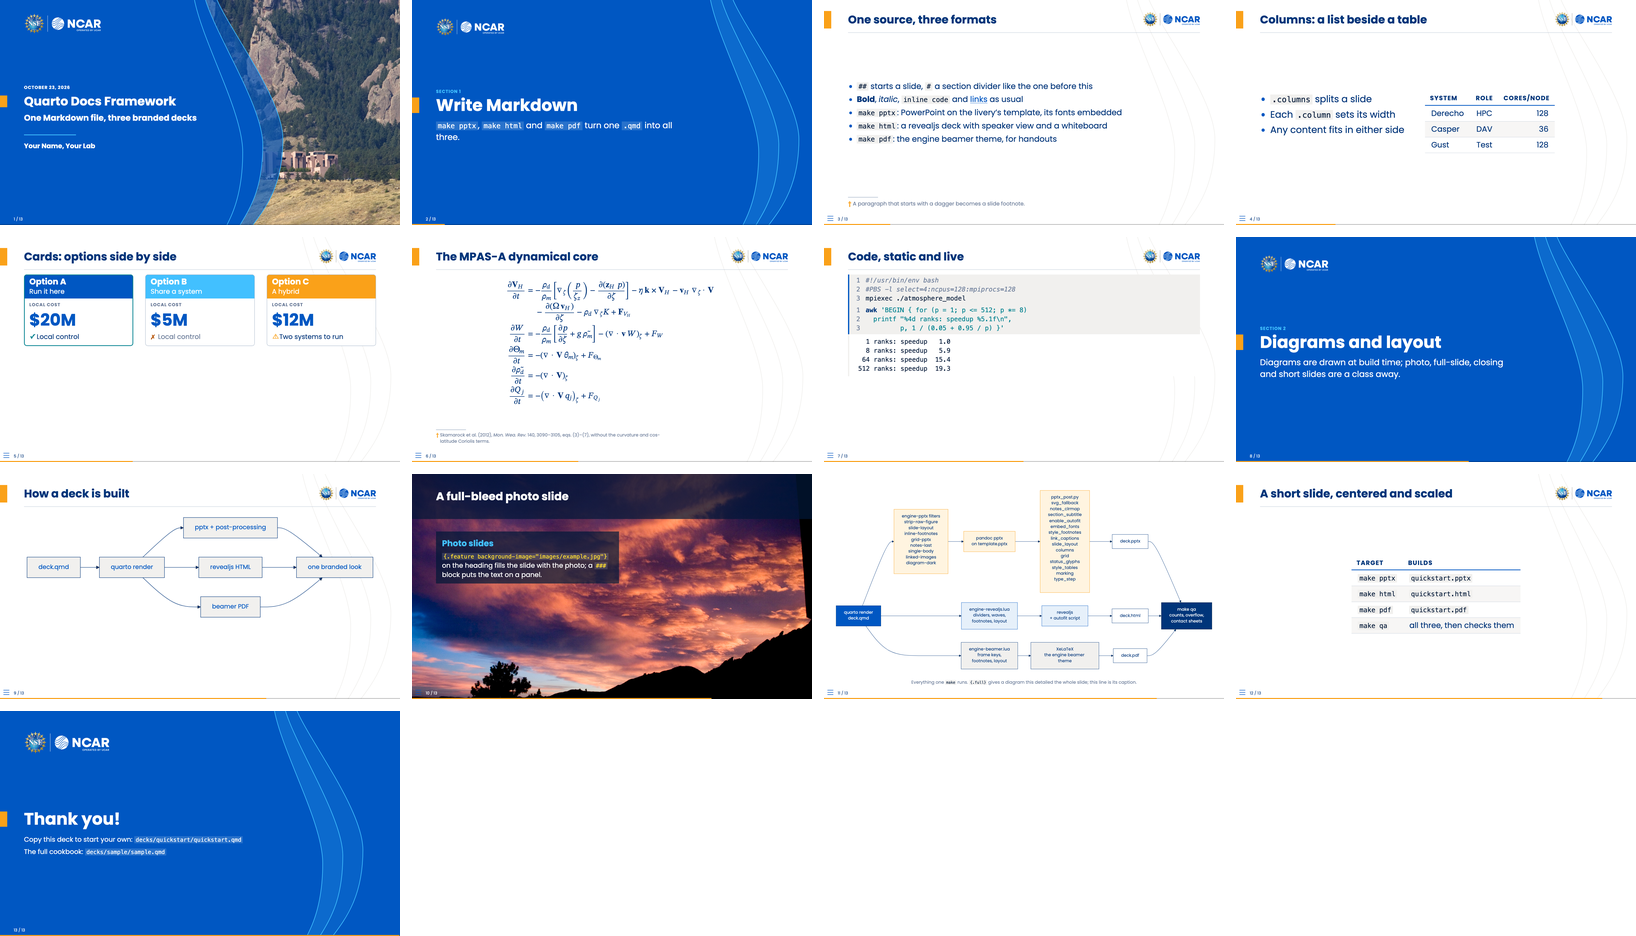
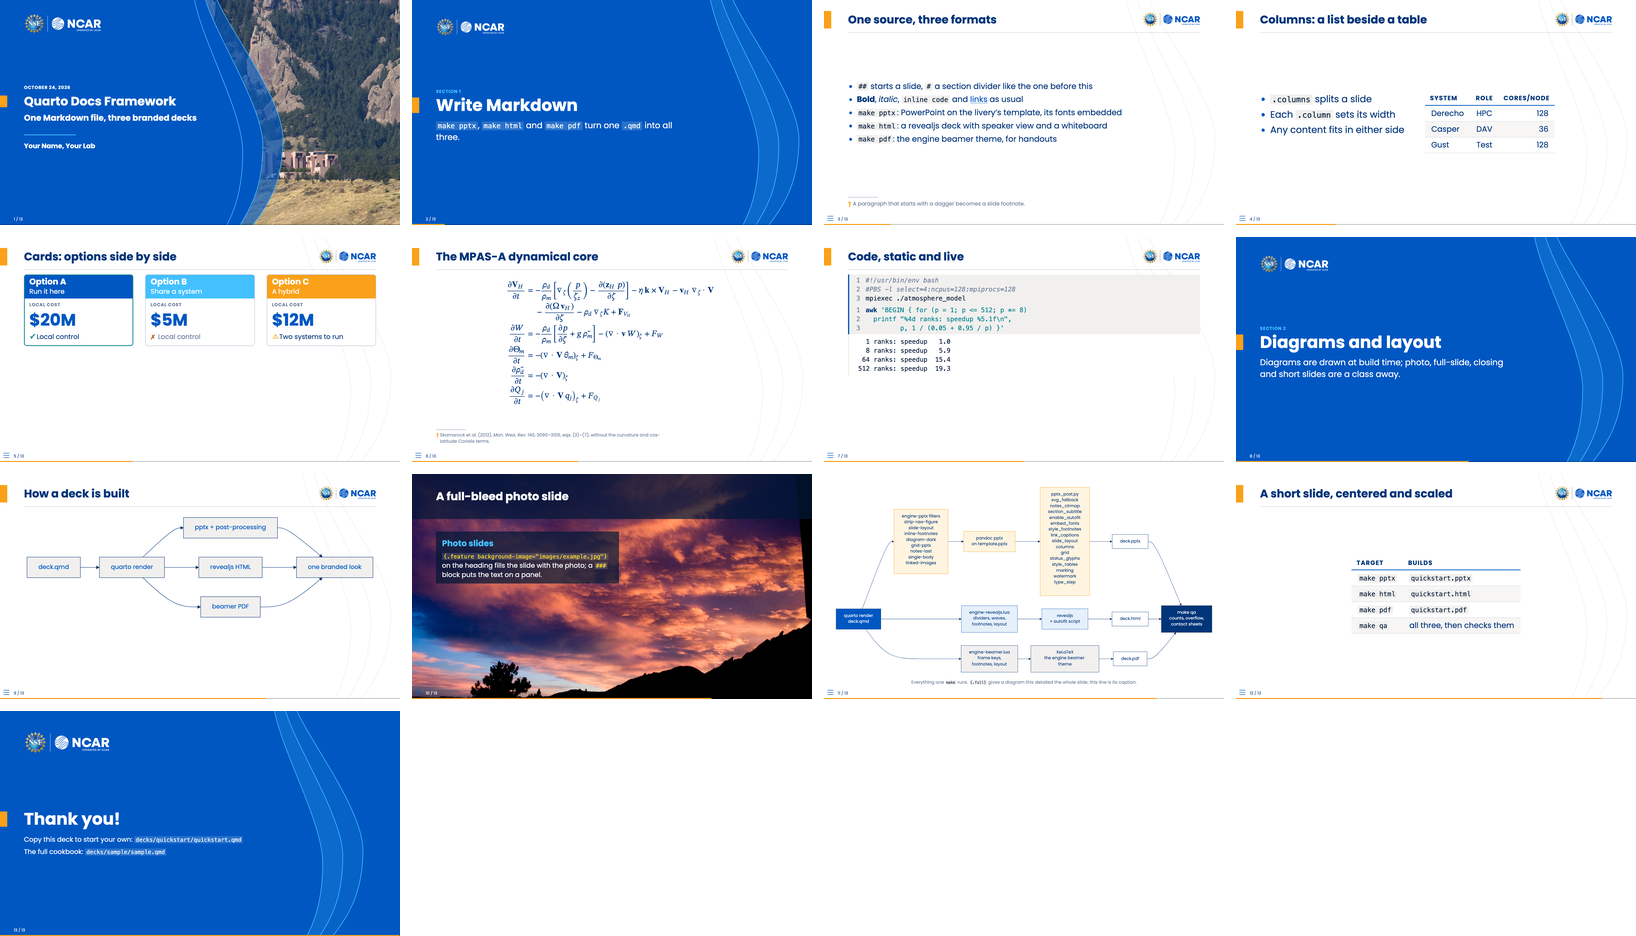
sweep(13): the quickstart's pipeline diagram and formats.md's step list as the code runs
The quickstart's full-slide diagram (09-full.png, in the README's overview) listed diagram-dark last among
the pptx filters, where #148 moved it before grid-pptx (_extension.yml), and its post-render
steps ended marking, type_step, missing #149's watermark between them; docs/formats.md's step
list missed the watermark too. Both now follow _extension.yml and pptx_post.py; the slide's
shot and the overview are reshot (the handoff named it 07-mermaid; that slide is another).

Claude-Session: https://claude.ai/code/session_016ELREyRJPbKMgLhTztacRH

Changed region(s): [[0.4988, 0.5267, 0.7482, 0.7436]]

diff --git a/docs/formats.md b/docs/formats.md
@@ -128,6 +128,9 @@ Per deck, `make pptx` runs:
      cell by cell, and evenly split columns are re-split by content.
    - `marking`: the marking strips on every slide (a deck's `marking:`, else each strip's
      default text; see [authoring.md "Front matter and slide kinds"](authoring.md#front-matter-and-slide-kinds)).
+   - `watermark`: a deck's `watermark:` (or the livery's default text) on every slide, turned and
+     faint, behind the slide's first shape that holds text; after every step that adds a slide's
+     shapes.
    - `type_step`: applies a deck's `type-body:` or `type-scale:` (see [authoring.md "Text sizes and the slide size"](authoring.md#text-sizes-and-the-slide-size)),
      last, to every size the steps before it set (the strip's too, as HTML and PDF scale it).
 
